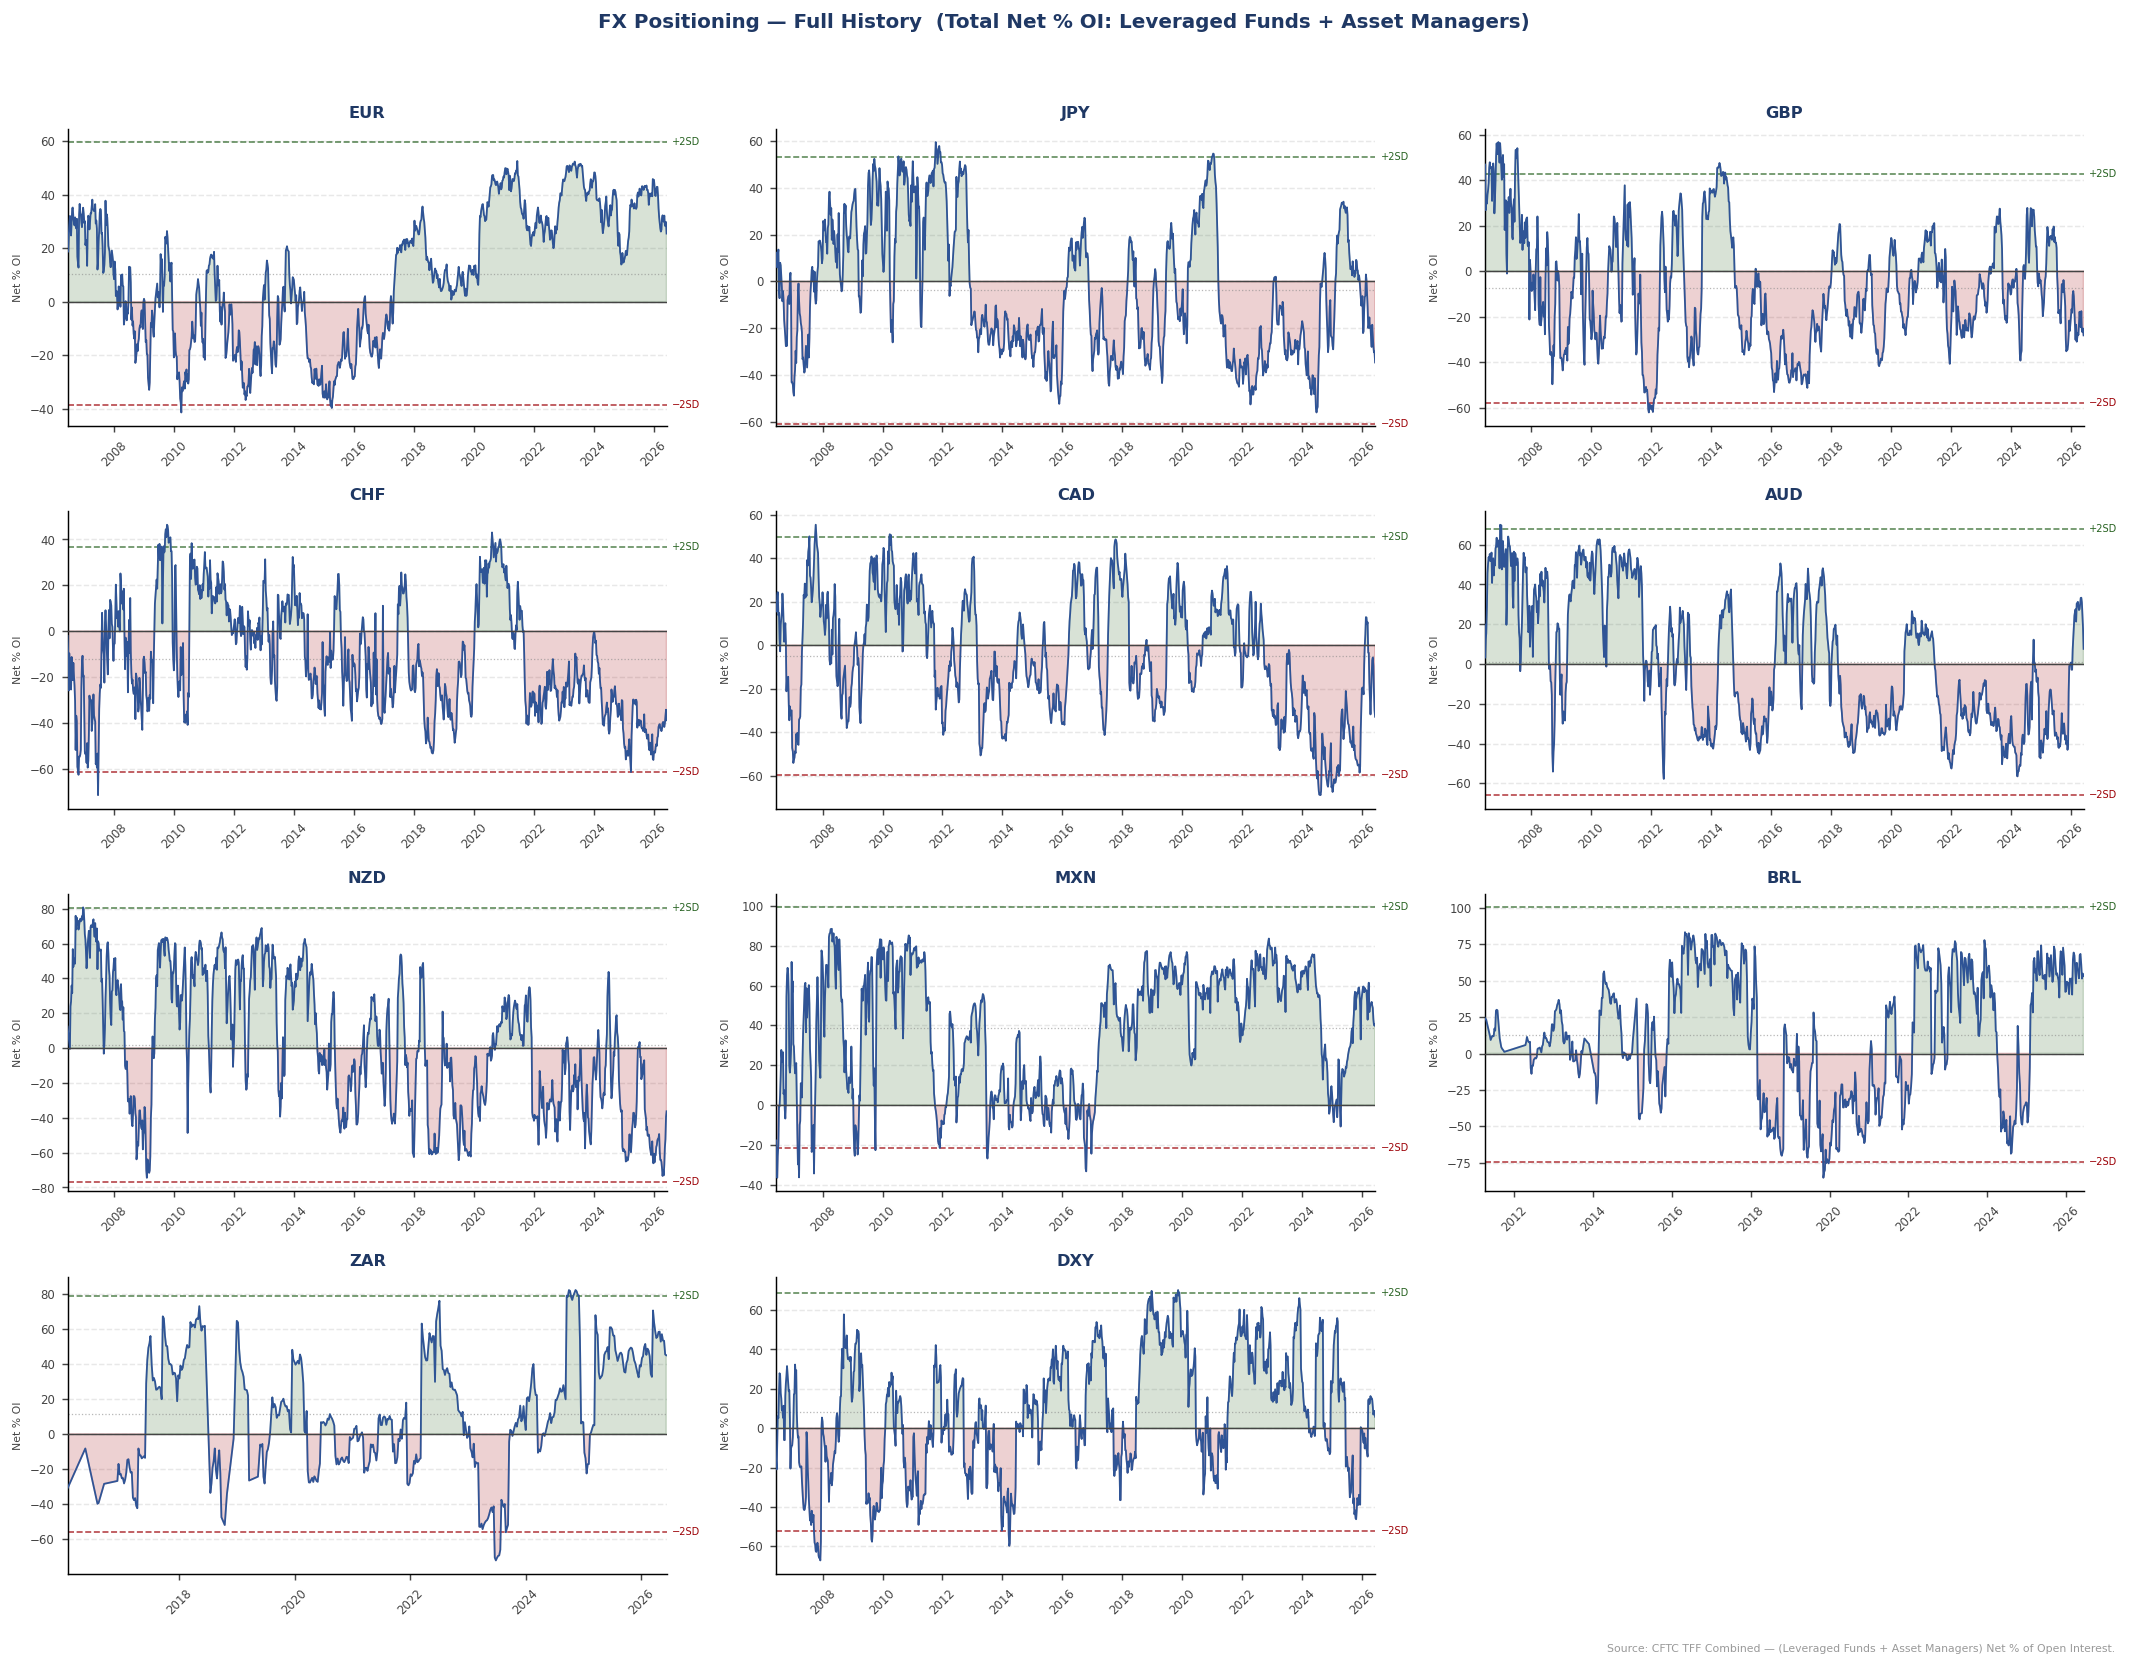
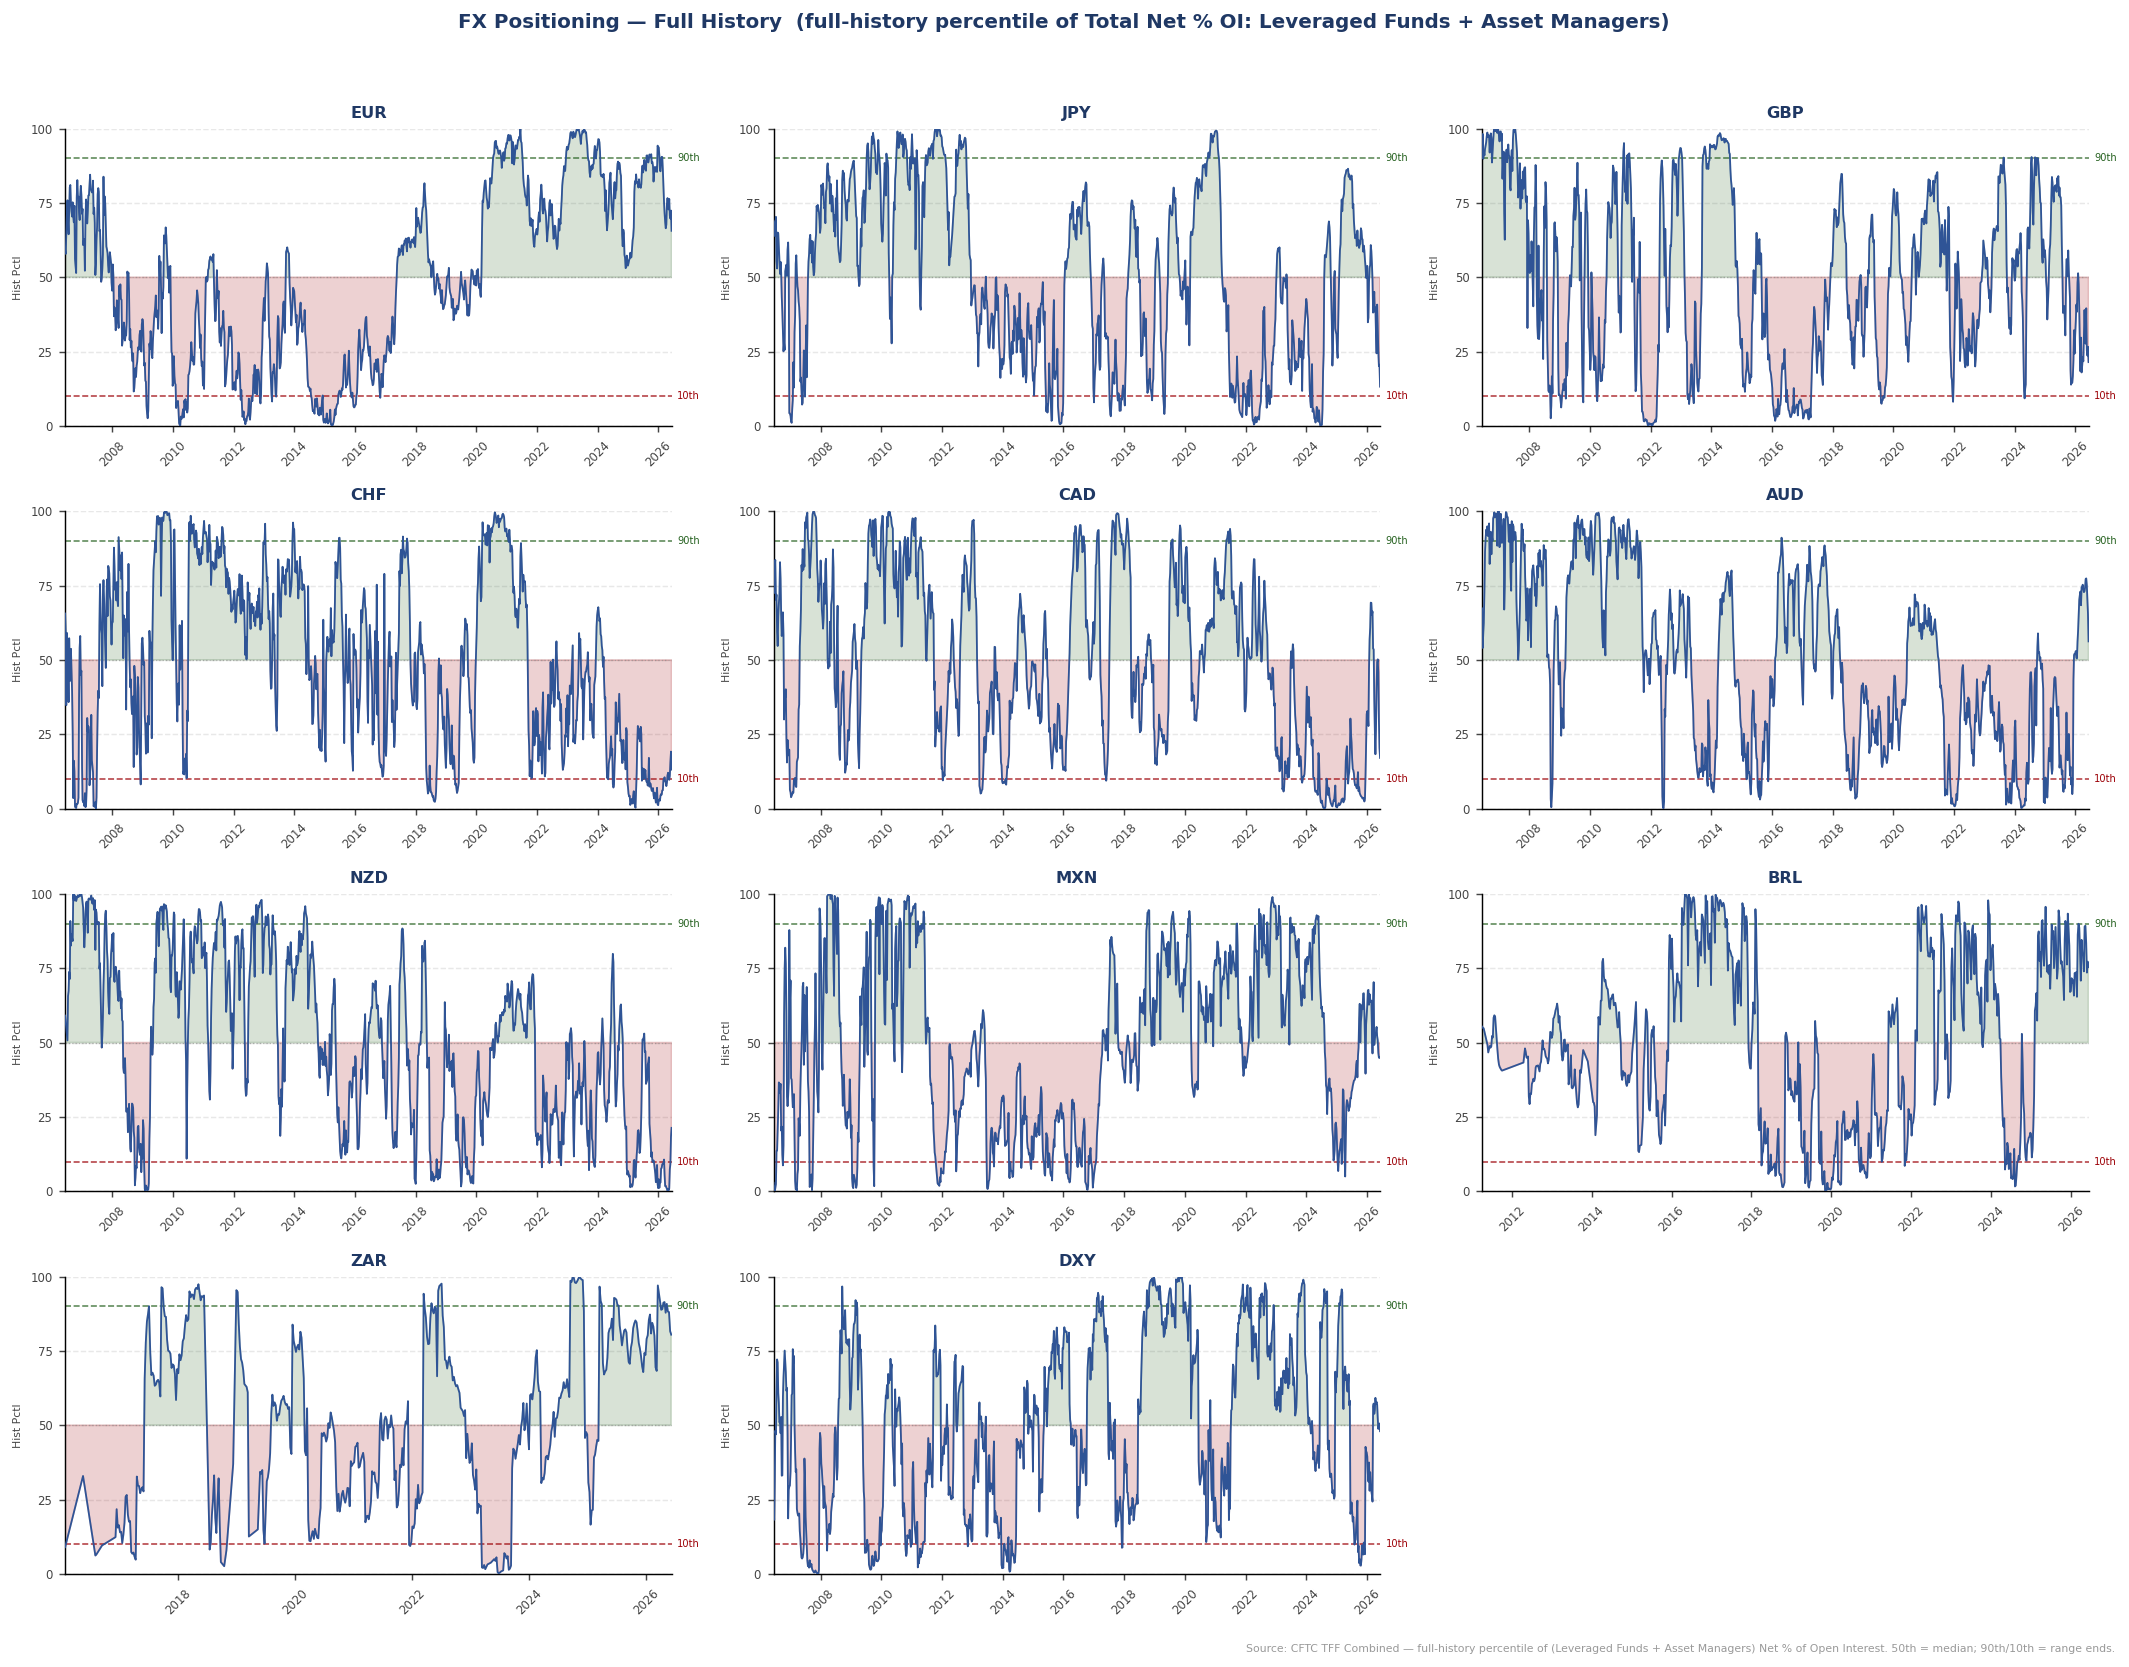
History chart: full-history percentile y-axis instead of Net % OI with ±2SD
Replace the ±2SD net-positioning history chart with a 0–100 full-history
percentile y-axis. The line now reads directly as Hist Pctl: 50th = each
currency's median, 90th/10th dashed bands mark the long/short range ends,
fill is green above the median and red below. Endpoints equal the table's
Hist Pctl column, and the fixed 0–100 axis makes cross-currency comparison
direct. Updated SKILL.md, references/writing_style.md, README, and the
example chart accordingly.

diff --git a/scripts/fx_positioning.py b/scripts/fx_positioning.py
@@ -20,7 +20,7 @@ API response is cached locally for 24 hours so repeated runs don't hit the API.
 Outputs (written to --outdir, default = current working directory):
     Positioning_Data.xlsx   formatted table + both charts embedded
     ytd_positioning.png      standalone YTD distribution box plot
-    history_positioning.png  standalone full-history small-multiples chart
+    history_positioning.png  full-history small-multiples, y-axis = full-history percentile
     positioning_table.csv    machine-readable table incl. Lev / AstMgr split
 
 Usage:
@@ -70,7 +70,7 @@ FETCH_LIMIT = 50000   # max rows per request; full FX dataset is ~11k rows
 
 CCY_ORDER = ["EUR", "JPY", "GBP", "CHF", "CAD", "AUD", "NZD", "MXN", "BRL", "ZAR", "DXY"]
 
-# Per-currency chart display start date (±2SD still computed over full history)
+# Per-currency chart display start date (percentile still computed over full history)
 CHART_STARTS = {
     "ZAR": date(2016, 1, 1),   # pre-2016 ZAR data is very sparse (<5 obs/year)
 }
@@ -499,7 +499,7 @@ def _make_ytd_chart(fx_rows: list[dict], fx_data: dict):
     return buf
 
 
-# ── Full-history time-series chart with ±2 SD ────────────────────────────────
+# ── Full-history time-series chart on a full-history percentile y-axis ────────
 
 def _make_history_chart(fx_data: dict):
     try:
@@ -518,7 +518,8 @@ def _make_history_chart(fx_data: dict):
                              figsize=(ncols * 5.5, nrows * 3.0 + 0.8),
                              squeeze=False)
     fig.suptitle(
-        "FX Positioning — Full History  (Total Net % OI: Leveraged Funds + Asset Managers)",
+        "FX Positioning — Full History  (full-history percentile of Total Net % OI: "
+        "Leveraged Funds + Asset Managers)",
         fontsize=11, fontweight="bold", color="#1F3864", y=0.99,
     )
 
@@ -536,45 +537,51 @@ def _make_history_chart(fx_data: dict):
         dates  = [h["date"] for h in history]
         values = [h["total_net_pct"] for h in history]
 
-        # ±2SD computed over full history regardless of display window
-        mean  = sum(values) / len(values)
-        stdev = (sum((v - mean) ** 2 for v in values) / (len(values) - 1)) ** 0.5
-        sd2p, sd2n = mean + 2 * stdev, mean - 2 * stdev
+        # Y-axis = full-history percentile (0–100) of each observation vs the
+        # whole series. 50 = the currency's own median position; 90/10 mark the
+        # long/short ends of its full-history range. Percentile is computed over
+        # the full series regardless of the display window, so it matches the
+        # Hist Pctl column in the table.
+        pcts = [pctl_rank(v, values) for v in values]
 
         # Clip display window for sparse-early-data currencies
         chart_start  = CHART_STARTS.get(ccy, dates[0])
-        disp_dates   = [d for d, v in zip(dates, values) if d >= chart_start]
-        disp_values  = [v for d, v in zip(dates, values) if d >= chart_start]
+        disp_dates   = [d for d, p in zip(dates, pcts) if d >= chart_start]
+        disp_pcts    = [p for d, p in zip(dates, pcts) if d >= chart_start]
         if len(disp_dates) < 2:
-            disp_dates, disp_values = dates, values
+            disp_dates, disp_pcts = dates, pcts
 
-        ax.plot(disp_dates, disp_values, color="#2F5496", linewidth=1.0, zorder=3)
-        ax.fill_between(disp_dates, disp_values, 0,
-                        where=[v >= 0 for v in disp_values],
+        ax.plot(disp_dates, disp_pcts, color="#2F5496", linewidth=1.0, zorder=3)
+        # Shade vs the median (50th pctl): above = longer than its own history,
+        # below = shorter.
+        ax.fill_between(disp_dates, disp_pcts, 50,
+                        where=[p >= 50 for p in disp_pcts],
                         alpha=0.18, color="#276221", interpolate=True, zorder=2)
-        ax.fill_between(disp_dates, disp_values, 0,
-                        where=[v < 0 for v in disp_values],
+        ax.fill_between(disp_dates, disp_pcts, 50,
+                        where=[p < 50 for p in disp_pcts],
                         alpha=0.18, color="#9C0006", interpolate=True, zorder=2)
 
-        ax.axhline(sd2p, color="#276221", linewidth=0.9, linestyle="--", alpha=0.75)
-        ax.axhline(sd2n, color="#9C0006",  linewidth=0.9, linestyle="--", alpha=0.75)
-        ax.axhline(mean, color="#888888",  linewidth=0.7, linestyle=":",  alpha=0.6)
-        ax.axhline(0, color="#444444", linewidth=0.8, zorder=4)
+        # Range-extreme bands at the 90th / 10th percentile (long / short ends).
+        ax.axhline(90, color="#276221", linewidth=0.9, linestyle="--", alpha=0.75)
+        ax.axhline(10, color="#9C0006",  linewidth=0.9, linestyle="--", alpha=0.75)
+        ax.axhline(50, color="#888888",  linewidth=0.7, linestyle=":",  alpha=0.6)
 
-        # Annotate SD lines on the right edge
+        # Annotate band lines on the right edge
         xmax = disp_dates[-1]
-        ax.annotate("+2SD", xy=(xmax, sd2p), fontsize=5.5, color="#276221",
+        ax.annotate("90th", xy=(xmax, 90), fontsize=5.5, color="#276221",
                     va="center", ha="left", xytext=(3, 0), textcoords="offset points")
-        ax.annotate("−2SD", xy=(xmax, sd2n), fontsize=5.5, color="#9C0006",
+        ax.annotate("10th", xy=(xmax, 10), fontsize=5.5, color="#9C0006",
                     va="center", ha="left", xytext=(3, 0), textcoords="offset points")
 
         ax.set_xlim(disp_dates[0], date.today())
+        ax.set_ylim(0, 100)
         ax.set_title(ccy, fontsize=9, fontweight="bold", color="#1F3864")
         ax.tick_params(axis="both", labelsize=6.5, colors="#444444")
         ax.xaxis.set_major_formatter(mdates.DateFormatter("%Y"))
         ax.xaxis.set_major_locator(mdates.YearLocator(2))
         ax.tick_params(axis="x", rotation=45)
-        ax.set_ylabel("Net % OI", fontsize=6, color="#444444")
+        ax.set_yticks([0, 25, 50, 75, 100])
+        ax.set_ylabel("Hist Pctl", fontsize=6, color="#444444")
         ax.grid(axis="y", linestyle="--", color="#CCCCCC", alpha=0.45)
         for sp in ("top", "right"):
             ax.spines[sp].set_visible(False)
@@ -583,7 +590,8 @@ def _make_history_chart(fx_data: dict):
         axes[idx // ncols][idx % ncols].axis("off")
 
     fig.text(0.99, 0.005,
-             "Source: CFTC TFF Combined — (Leveraged Funds + Asset Managers) Net % of Open Interest.",
+             "Source: CFTC TFF Combined — full-history percentile of (Leveraged Funds + "
+             "Asset Managers) Net % of Open Interest. 50th = median; 90th/10th = range ends.",
              fontsize=6, color="#999999", ha="right")
     fig.tight_layout(rect=[0, 0.015, 1, 0.97])
 
@@ -701,9 +709,10 @@ def write_table_csv(fx_rows: list[dict], cot_date, outdir: Path) -> None:
                     f"Net = (Leveraged Funds + Asset Managers) long − short as % of "
                     f"Open Interest. 13W/52W/5Y Pctl & Z are vs trailing 13-week, 52-week "
                     f"and 5-year (260-report) windows — horizons from tactical to "
-                    f"structural. Hist Z / Hist Pctl are vs FULL history (2006→) — the "
-                    f"basis for the history chart's ±2SD bands and any 'historic extreme' "
-                    f"read. Windows can diverge sharply; cite the one you mean."])
+                    f"structural. Hist Z / Hist Pctl are vs FULL history (2006→) — Hist "
+                    f"Pctl is the y-axis of the history chart (90th/10th = range ends) and "
+                    f"the basis for any 'historic extreme' read. Windows can diverge "
+                    f"sharply; cite the one you mean."])
         w.writerow(cols)
         for r in fx_rows:
             w.writerow([r.get(c, "") for c in cols])

diff --git a/SKILL.md b/SKILL.md
@@ -58,7 +58,7 @@ The script writes four files to the output directory:
 |---|---|
 | `positioning_table.csv` | The table incl. the Leveraged-Funds vs Asset-Manager split. **Source of truth for all numbers you cite.** |
 | `ytd_positioning.png` | YTD distribution box plot: each currency's YTD range of 52W z-scores, with current (×) and 1-week-ago (•) marked. |
-| `history_positioning.png` | Full-history small multiples per currency, Total Net % OI with ±2SD bands. |
+| `history_positioning.png` | Full-history small multiples per currency, y-axis = full-history percentile of Total Net % OI (0–100), with 90th/10th range-end bands and the 50th-percentile median. |
 | `Positioning_Data.xlsx` | Formatted table + both charts embedded — the deliverable workbook for the PM. |
 
 ### 2. Read the outputs
@@ -71,10 +71,14 @@ Read all three analytical outputs before writing a word:
    its own year's range, and whether it moved toward or away from an extreme
    in the last week (× vs •).
 3. `history_positioning.png` — for the long-run *shape*: the trajectory, regime
-   shifts, how the current move compares to past swings. For the precise "is it
-   at a ±2SD extreme" question, **trust `Hist Z` in the table, not your eye** —
-   the subplots are small and the bands are full-history (|Hist Z| ≳ 2 ≈ at the
-   band). Use the chart for context; use the number for the claim.
+   shifts, how the current move compares to past swings. The y-axis is now the
+   **full-history percentile** of Total Net % OI (0–100), so the line's level
+   reads directly as `Hist Pctl`: 50 = the currency's own median, the 90th/10th
+   bands mark the long/short ends of its range, and the fill is green above the
+   median, red below. The current endpoint equals the `Hist Pctl` column. For a
+   genuine multi-year *extreme* read, still cross-check `Hist Z` in the table
+   (|Hist Z| ≳ 2 is a true outlier); the 90th/10th bands flag range ends, which
+   is a softer bar than ±2SD.
 
 If the script reports a currency skipped for insufficient history, say so
 rather than inventing a read.
@@ -109,16 +113,17 @@ as a horizon ladder, and always name which one you mean:
   *is* the story — a regime shift or a position rebuilding/unwinding — so spell
   it out.
 - **Hist Z / Hist Pctl** — the position vs its **full history** (2006→). This,
-  *not* the 13W/52W/5Y windowed stat, is what the history chart's ±2SD bands
-  reflect, and the only correct basis for any "historic extreme / pressing its
-  ±2SD band / multi-year high-low" claim. **Use the right window:** 13W/52W/5Y =
-  *windowed* crowding; Hist = *all-time* extreme. They can diverge sharply —
-  never map one onto the other, and never eyeball an extreme off the small chart
-  subplots when the number is right here in the table. (Worked example: CHF reads 98th %ile /
-  +1.8z on 52W — top of the *past year*, shorts covered — but only 19th %ile /
-  −0.9 Hist Z, i.e. *below* its long-run mean and still net short. So it is
-  **not** near its upper ±2SD band; the history chart shows it in the lower,
-  net-short region. Claiming it "presses the upper band" would be wrong.)
+  *not* the 13W/52W/5Y windowed stat, is what the history chart plots on its
+  y-axis (`Hist Pctl`) and the only correct basis for any "historic extreme /
+  multi-year high-low" claim. **Use the right window:** 13W/52W/5Y = *windowed*
+  crowding; Hist = *all-time* range position. They can diverge sharply — never
+  map one onto the other. The history chart now shows `Hist Pctl` directly, so
+  the line's level is trustworthy; use `Hist Z` for whether a level is a true
+  *outlier* (|Hist Z| ≳ 2). (Worked example: CHF reads 98th %ile / +1.8z on 52W
+  — top of the *past year*, shorts covered — but only 19th %ile / −0.9 Hist Z,
+  i.e. *below* its long-run mean and still net short. On the history chart it
+  sits in the lower, red, below-median band — well short of the 90th-percentile
+  long-end line. Claiming it "presses the top of its range" would be wrong.)
 - **WoW Chg / MoM Chg** — change in Total Net % OI vs last week / ~4 weeks ago.
   The *flow*. Describe the biggest movers and the direction of flow.
 
@@ -146,8 +151,8 @@ the directional conclusion. See `references/writing_style.md`.
 
 Read `references/writing_style.md` now — it carries the house voice,
 structure, vocabulary, and the analytical angles (aggregate-vs-dispersion,
-lev-vs-asset-manager split, percentile-vs-z, WoW flow, level-vs-range, ±2SD
-extremes). Follow it.
+lev-vs-asset-manager split, percentile-vs-z, WoW flow, level-vs-range,
+full-history range position). Follow it.
 
 Write the note as a markdown file in the output directory
 (`fx_positioning_note_<COT-date>.md`) **and** present it in the chat. Use this

diff --git a/references/writing_style.md b/references/writing_style.md
@@ -92,8 +92,8 @@ Keep the whole thing to roughly one page. Density over length.
   (how crowded/extended). Z-score = how many SD from the mean. A high
   percentile with a modest z is range-bound-high; a high z is a genuine outlier.
 - **Three horizons — name the one you mean.** 13W = tactical/recent, 52W =
-  cyclical (1Y), 5Y = structural/multi-year; plus Hist (full history) for the
-  ±2SD bands. The windows nest, and when they disagree *that is the signal*: a
+  cyclical (1Y), 5Y = structural/multi-year; plus Hist (full history), the
+  history chart's percentile y-axis. The windows nest, and when they disagree *that is the signal*: a
   position can be at its 13W floor yet near its 5Y high (being cut but still
   structurally large), or fresh on the year but neutral over 5Y. Spell the
   divergence out descriptively — it's the difference between a tactical wobble
@@ -120,16 +120,19 @@ Keep the whole thing to roughly one page. Density over length.
   - Mirror case (stretched despite the sign): *"CHF is net short (−34% OI) yet
     sits at the top of its range (98th %ile) — a heavily-covered short,
     stretched toward the long end despite the negative net."*
-- **±2SD bands = full history (use `Hist Z`, not the 52W stat).** The history
-  chart's ±2SD envelope is computed over the **full** series (2006→), so the
-  correct "genuine extreme vs merely elevated" read is the `Hist Z` / `Hist
-  Pctl` columns — *not* the 52W/13W percentile, and not an eyeball of the small
-  subplots. The two windows can diverge hard: a book can sit at the top of its
-  trailing year (52W 98th %ile) yet be below its long-run mean (Hist Z −0.9,
-  19th %ile) — the recent picture is "shorts covered to a 1-yr high," the
-  full-history picture is "still net short, mid-low range." Say which window you
-  mean, and only call a ±2SD / multi-year extreme when `Hist Z` supports it
-  (|Hist Z| ≳ 2). Never attribute a 52W extreme to the history chart.
+- **History chart = full-history percentile (use `Hist Pctl` / `Hist Z`, not the
+  52W stat).** The history chart's y-axis is the **full-history percentile**
+  (2006→) of Total Net % OI, with the 50th-percentile median dotted and the
+  90th/10th range-ends dashed, so the correct "where in its full range" read is
+  the `Hist Pctl` column — *not* the 52W/13W percentile — and the chart endpoint
+  equals `Hist Pctl`. For "genuine outlier vs merely elevated," lean on `Hist Z`
+  (|Hist Z| ≳ 2 is a true extreme; the 90th/10th bands flag range ends, a softer
+  bar). The windows can diverge hard: a book can sit at the top of its trailing
+  year (52W 98th %ile) yet below its long-run mean (Hist Z −0.9, 19th %ile, below
+  the chart's median line) — the recent picture is "shorts covered to a 1-yr
+  high," the full-history picture is "still net short, mid-low range." Say which
+  window you mean. Never attribute a 52W extreme to the history chart — that
+  chart is full-history percentile only.
 
 ## Punch, and no repetition
 

diff --git a/README.md b/README.md
@@ -15,8 +15,8 @@ When invoked, it:
    percentiles and z-scores (tactical → cyclical → structural), full-history
    z-scores, and week-over-week and month-over-month changes.
 2. Produces a formatted Excel workbook, two charts (a YTD positioning-score
-   distribution and a full-history time series with ±2SD bands), and a
-   machine-readable CSV.
+   distribution and a full-history time series on a full-history percentile
+   y-axis), and a machine-readable CSV.
 3. Has the agent read the table and **view the charts**, then write a one-page
    positioning note in the house style of the JPM FX Positioning Monitor /
    Morgan Stanley G10 FX positioning reports.
@@ -35,7 +35,7 @@ crowding highlights (green = crowded long, red = crowded short):
 
 The two charts the analysis reads (also embedded in the workbook):
 
-| YTD positioning-score distribution | Full-history net positioning (±2SD) |
+| YTD positioning-score distribution | Full-history percentile of net positioning |
 |---|---|
 | ![YTD](examples/ytd_positioning.png) | ![History](examples/history_positioning.png) |
 
@@ -115,7 +115,7 @@ python3 "$SKILL_DIR/scripts/fx_positioning.py" --refresh  # bypass 24h cache
 |---|---|
 | `positioning_table.csv` | The table incl. the Leveraged-Funds vs Asset-Manager split — the source of truth for every number in the note. |
 | `ytd_positioning.png` | YTD distribution of each currency's 52W positioning score, with current (×) and 1-week-ago (•) marked. |
-| `history_positioning.png` | Full-history small multiples per currency: Total Net % OI with ±2SD bands. |
+| `history_positioning.png` | Full-history small multiples per currency: y-axis = full-history percentile of Total Net % OI (0–100), with 90th/10th range-end bands and the 50th-percentile median. |
 | `Positioning_Data.xlsx` | Formatted table + both charts embedded. |
 
 The CFTC API response is cached locally (`~/.fx_cache/`) for 24h, so repeated
@@ -141,8 +141,9 @@ requirements.txt          Python dependencies
   window (extension).
 - **Lookback windows:** 13W ≈ tactical/recent · 52W ≈ cyclical (1Y) · 5Y ≈
   structural/multi-year (260 reports) · plus full-history `Hist Z` / `Hist Pctl`
-  (the basis for the chart's ±2SD bands and any all-time-extreme read). The
-  windows can diverge — a position can be at its 13W floor yet near its 5Y high.
+  (`Hist Pctl` is the history chart's y-axis; `Hist Z` is the all-time-extreme
+  read). The windows can diverge — a position can be at its 13W floor yet near
+  its 5Y high.
 
 ## Disclaimer
 